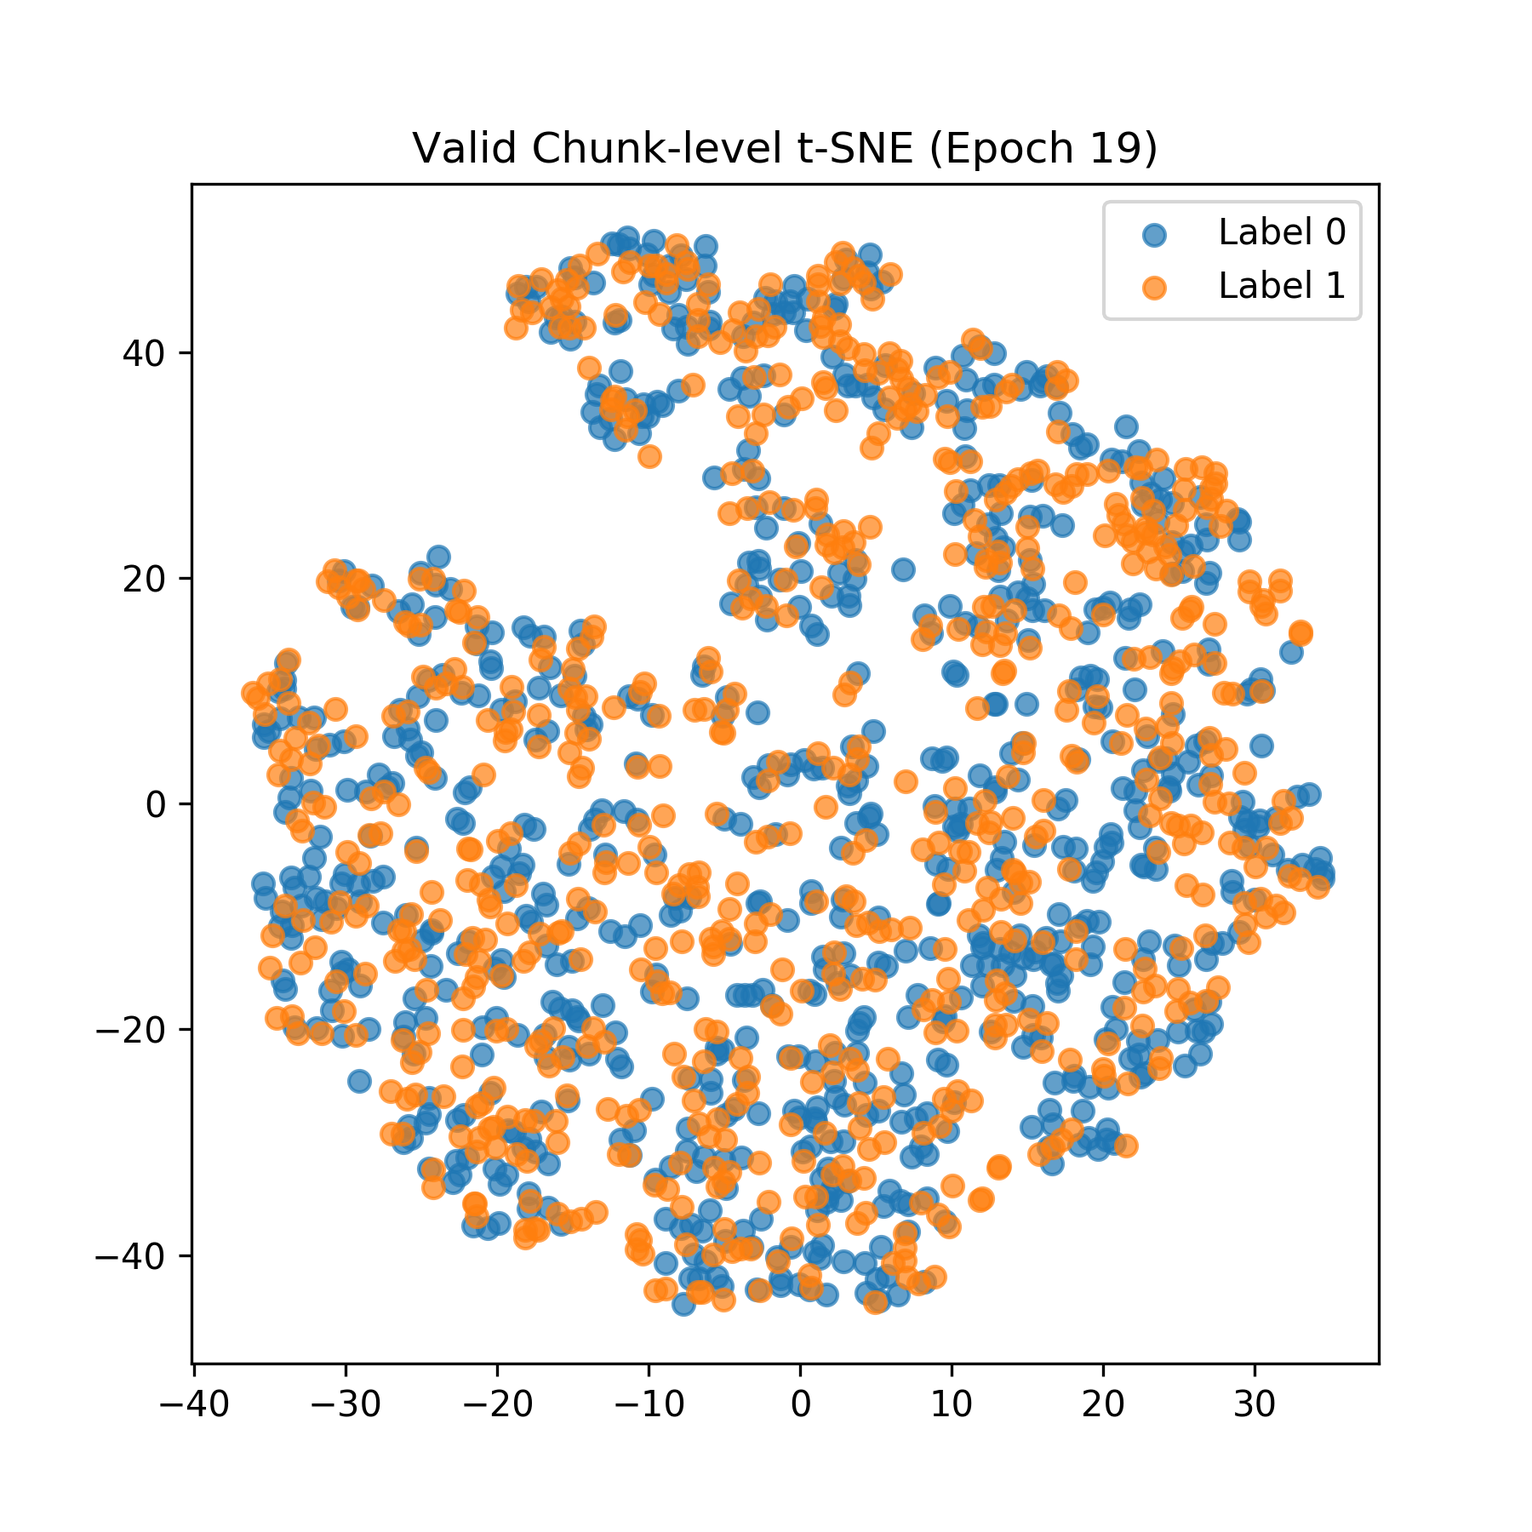
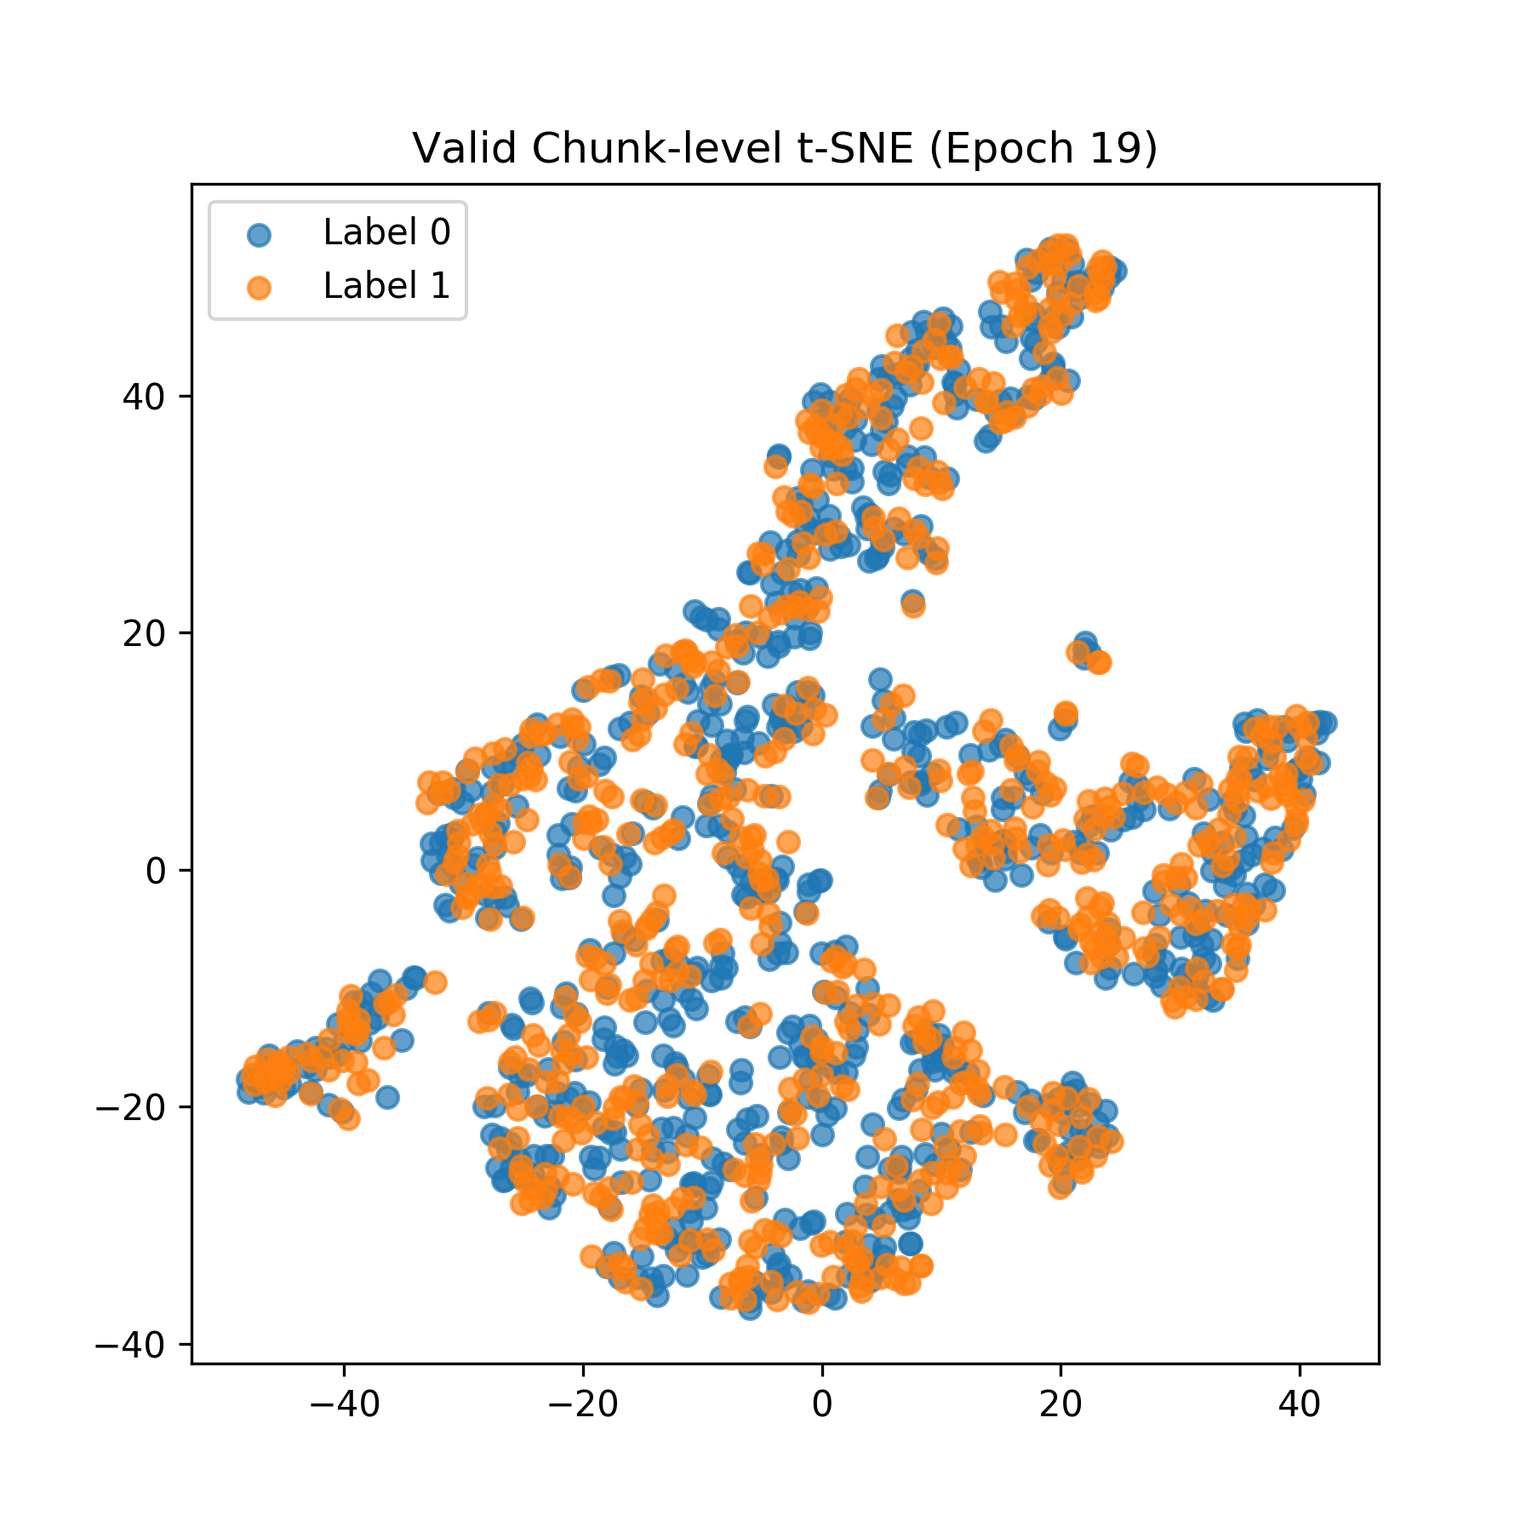
saving model/utils(for valid and test)/test code fixed, params adjustment

diff --git a/trainer/TemporalBranchTrainer_BC.py b/trainer/TemporalBranchTrainer_BC.py
@@ -328,7 +328,6 @@ class TemporalBranchTrainer_BC(BaseTrainer):
         self.attn_scorer = AttnScorer(
             input_dim=config.MODEL.EMOTION.TEMPORAL_EMBED_DIM
         ).to(self.device)
-        self.lambda_ent = 0.1 # for sparsity loss
         
         # ------------------------------ Projection Head -------------------------------
         """Maps chunk embeddings to a projection space for contrastive learning"""
@@ -370,12 +369,9 @@ class TemporalBranchTrainer_BC(BaseTrainer):
         # -------------------------------- Loss Functions -------------------------------
         """SupConLossTopK: supervised contrastive loss using top-K attended chunks per session"""
         self.contrastive_loss_fn = SupConLossTopK(temperature=0.1)
-        self.contrastive_weight = 1.0
-        self.top_k_ratio = 0.5
         
         """CrossEntropyLoss: standard cross-entropy loss for classification"""
         self.criterion = nn.CrossEntropyLoss() # <================================ HOW ABOUT FOCAL LOSS???
-        self.ce_weight = 0.0
         
         """
         AlignCosineLoss: cosine distance between Top-K pooled vs Gated pooled embeddings.
@@ -399,9 +395,9 @@ class TemporalBranchTrainer_BC(BaseTrainer):
         self.best_chunk_ce_loss = float('inf')
         self.best_val_loss = float('inf')
         self.best_epoch = 0
-        self.best_val_acc = 0.0
-        self.best_val_f1 = 0.0
-        self.best_val_metric = 0.0
+        self.best_val_acc_phase = [0.0 for _ in range(3)]     # Phase 0,1,2
+        self.best_val_f1_phase = [0.0 for _ in range(3)]
+        self.best_val_metric_phase = [0.0 for _ in range(3)]
         self.avg_entropy_attn = None
         
         self.train_losses = []
@@ -457,11 +453,12 @@ class TemporalBranchTrainer_BC(BaseTrainer):
             phase, lr, wd, t_max = 0, 3e-4, 1e-4, 20
             
             # ① SupCon λ : 0-4 (1→0.6) , 5-19 (0.6→0.3)
-            if   epoch <= 4:
-                self.contrastive_weight = 1.0 - 0.1 * epoch          # 1.0→0.6
+            if  epoch < 10:
+                self.contrastive_weight = 1.0 - 0.05 * epoch        # 1.0→0.55
             else:
-                self.contrastive_weight = 0.6 - 0.3 * (epoch-4)/15  # 0.6→0.3
+                self.contrastive_weight = 0.55 - 0.02 * (epoch-10)  # 0.55→0.35
             self.contrastive_weight = max(0.3, self.contrastive_weight)
+            self.lambda_ent      = 0.05 # for sparsity loss
             self.chunk_ce_weight = 0.0
             self.ce_weight       = 0.0
             
@@ -481,14 +478,16 @@ class TemporalBranchTrainer_BC(BaseTrainer):
                 self.chunk_ce_weight = 0.25
             else:
                 self.chunk_ce_weight = 0.35 + 0.025 * (epoch-25)      # 0.35→0.60
-            self.chunk_ce_weight = min(0.60, self.chunk_ce_weight)
             self.contrastive_weight = 0.0
+            self.lambda_ent         = 0.0
+            self.chunk_ce_weight    = min(0.60, self.chunk_ce_weight)
             self.ce_weight          = 0.0
             self.temperature        = 1.0         # fixed
         
         # ───────────────────── Phase-2 ─────────────────────
         else:                          
             phase, lr, wd, t_max = 2, 1e-4, 5e-5, 10
+            self.lambda_ent         = 0.0
             self.contrastive_weight = 0.0
             self.chunk_ce_weight    = 0.0
             self.ce_weight          = 1.0
@@ -597,7 +596,7 @@ class TemporalBranchTrainer_BC(BaseTrainer):
             # ────────────────────────────────────────────────
 
             # 2) attention scorer 
-            attn_soft, raw_scores = self.attn_scorer(
+            attn_soft, raw_scaled = self.attn_scorer(
                 chunk_emb,                               # (1,T,1)
                 temperature=self.temperature,            # τ  (phase-adaptive)
                 epoch=epoch,                             # epoch index
@@ -605,15 +604,16 @@ class TemporalBranchTrainer_BC(BaseTrainer):
             print(f"[DEBUG] Session {sid}  #chunks={T}, σ_running={self.attn_scorer.running_score_std.item():.3f}")
             
             # 3) build α  – soft in Phase-0, ST-Top-K in Phase-1
-            if phase == 0:                                              # Phase-0
-                alpha = attn_soft
-            elif phase == 1:                                              # Phase-1 ST-Top-K
-                if len(raw_scores.squeeze(0).squeeze(-1)) < 1:
+            if phase == 1: # Phase-1 ST-Top-K
+                if len(raw_scaled.squeeze(0).squeeze(-1)) < 1:
                     print("Empty attention scores – skip this session")
                     continue
                 k  = min(T, max(6, int(T * self.top_k_ratio)))
-                alpha = straight_through_topk(raw_scores, k=k)
-            else:
+                alpha_mask = straight_through_topk(raw_scaled, k=k) # (1, T)
+                mask_bool  = alpha_mask.squeeze(0).bool()           # (T,)
+                alpha = alpha_mask.unsqueeze(-1)                    # (1,T,1)
+                print(f"[DEBUG] Top-K selected = {mask_bool.sum().item()} / {T}")
+            else:          # Phase-0 softmax or Phase-2 raw scores
                 alpha = attn_soft
 
             # 4) apply α before projection  (keeps grad path)
@@ -628,7 +628,6 @@ class TemporalBranchTrainer_BC(BaseTrainer):
 
             # 5-B) Top-K chunk CE  (Phase-1)
             if phase == 1:
-                mask_bool = alpha.squeeze(0).bool()                   # (T,)
                 topk_emb  = chunk_emb.squeeze(0)[mask_bool]           # (K,D)
                 topk_logits = self.chunk_aux_classifier(topk_emb)
                 topk_labels = torch.full((len(topk_logits),), label,
@@ -637,7 +636,7 @@ class TemporalBranchTrainer_BC(BaseTrainer):
 
             # 6) session-level pooling
             pooled, attn_gated, ent_gated = self.pooling(
-                gated_emb, raw_scores, return_weights=True, return_entropy=True)
+                gated_emb, raw_scaled, return_weights=True, return_entropy=True)
             # ★──────── session-level t-SNE ───────────────────
             sess_emb = pooled.squeeze(0)                              # (D,)
             self.session_embeddings_for_tsne.append(sess_emb.detach().cpu().numpy())
@@ -900,27 +899,27 @@ class TemporalBranchTrainer_BC(BaseTrainer):
             val_loss, metrics = self.valid(data_loader, epoch=epoch)
             self.val_losses.append(val_loss)
 
-            # Save by highest accuracy
-            if metrics['accuracy'] > self.best_val_acc:
-                self.best_val_acc = metrics['accuracy']
-                self.best_epoch = epoch
-                self.save_model(epoch=epoch, val_loss=val_loss, train_loss=avg_loss, val_metrics=metrics, tag="best_acc")
-                print(f"[SAVE] Best ACC model updated at epoch {epoch}")
+            # Save by highest accuracy, F1, sum of metrics (ACC + F1) per phase
+            phase_tag = f"phase{phase}"
+            
+            # Save by highest accuracy per phase
+            if metrics['accuracy'] > self.best_val_acc_phase[phase]:
+                self.best_val_acc_phase[phase] = metrics['accuracy']
+                self.save_model(epoch=epoch, val_loss=val_loss, train_loss=avg_loss, val_metrics=metrics, tag=f"best_acc_{phase_tag}")
+                print(f"[SAVE] Best ACC model updated at epoch {epoch} ({phase_tag})")
 
-            # Save by highest F1
-            if metrics['f1'] > self.best_val_f1:
-                self.best_val_f1 = metrics['f1']
-                self.best_epoch = epoch
-                self.save_model(epoch=epoch, val_loss=val_loss, train_loss=avg_loss, val_metrics=metrics, tag="best_f1")
-                print(f"[SAVE] Best F1 model updated at epoch {epoch}")
+            # Save by highest F1 per phase
+            if metrics['f1'] > self.best_val_f1_phase[phase]:
+                self.best_val_f1_phase[phase] = metrics['f1']
+                self.save_model(epoch=epoch, val_loss=val_loss, train_loss=avg_loss, val_metrics=metrics, tag=f"best_f1_{phase_tag}")
+                print(f"[SAVE] Best F1 model updated at epoch {epoch} ({phase_tag})")
 
-            # Save by best sum of metrics (Acc + F1)
-            if metrics['f1'] + metrics['accuracy'] > self.best_val_metric:
-                self.best_val_metric = metrics['f1'] + metrics['accuracy']
-                self.best_epoch = epoch
-                self.save_model(epoch=epoch, val_loss=val_loss, train_loss=avg_loss, val_metrics=metrics, tag="best_metric")
-                print(f"[SAVE] Best Metric model updated at epoch {epoch}")
-
+            # Save by best sum of metrics (Acc + F1) per phase
+            if metrics['f1'] + metrics['accuracy'] > self.best_val_metric_phase[phase]:
+                self.best_val_metric_phase[phase] = metrics['f1'] + metrics['accuracy']
+                self.save_model(epoch=epoch, val_loss=val_loss, train_loss=avg_loss, val_metrics=metrics, tag=f"best_metric_{phase_tag}")
+                print(f"[SAVE] Best Metric model updated at epoch {epoch} ({phase_tag})")
+                            
             # Save by lowest validation loss
             if val_loss < self.best_val_loss:
                 self.best_val_loss = val_loss
@@ -987,7 +986,7 @@ class TemporalBranchTrainer_BC(BaseTrainer):
                     losses.append(loss.item())
 
                     # Retrieve entropy from reconstruct_sessions
-                    entropy_val = session_entropies.get(sid, torch.tensor(0.0)).item()
+                    entropy_val = session_entropies[sid].item()
                     entropies.append(entropy_val)
 
                     prob = torch.softmax(outputs, dim=1).detach().cpu().numpy()[0]
@@ -1029,9 +1028,23 @@ class TemporalBranchTrainer_BC(BaseTrainer):
         self.eval_mode()
 
         base_name = self.config.TRAIN.MODEL_FILE_NAME
-        tags = ["best_acc", "best_f1", "best_metric", "best_loss", 
-                "best_ce_loss", "best_chunkce", "last_epoch"]
         results = {}
+        
+        # Best ACC/F1/Metric models per phase 0,1,2
+        phase_tags = []
+        for phase in range(3):
+            phase_tags += [
+                f"best_acc_phase{phase}",
+                f"best_f1_phase{phase}",
+                f"best_metric_phase{phase}"
+            ]
+    
+        # common models (best valid/ce/chunk_ce loss, total best, last epoch)
+        common_tags = [
+            "best_loss", "best_ce_loss", "best_chunkce", "last_epoch"
+        ]
+    
+        tags = phase_tags + common_tags
 
         for tag in tags:
             model_path = os.path.join("./saved_models", f"{base_name}_{tag}.pth")
@@ -1050,7 +1063,7 @@ class TemporalBranchTrainer_BC(BaseTrainer):
                 tbar = tqdm(data_loader["test"], desc=f"Test-{tag}", ncols=80)
                 for idx, batch in enumerate(tbar):
                     session_emb_dict, session_label_dict, session_entropies = self.reconstruct_sessions(
-                        batch=batch, idx=idx, phase='test'
+                        batch=batch, idx=idx, epoch=self.max_epoch, phase='test'
                     )
 
                     for sid, emb in session_emb_dict.items():
@@ -1112,7 +1125,7 @@ class TemporalBranchTrainer_BC(BaseTrainer):
             train_loss (float, optional): Training loss at this epoch.
             val_loss (float, optional): Validation loss at this epoch.
             val_metrics (dict, optional): Validation metrics such as accuracy, F1, etc.
-            tag (str): best_acc, best_f1, best_loss, best_metric
+            tag (str): Tag for saved model, e.g., best_acc, best_f1, etc.
         """
         model_save_dir = "./saved_models"
         os.makedirs(model_save_dir, exist_ok=True)
@@ -1121,9 +1134,11 @@ class TemporalBranchTrainer_BC(BaseTrainer):
         # === Save all modules ===
         model_dict = {
             "temporal_branch": self.temporal_branch.state_dict(),
-            "attention_pooling": self.pooling.state_dict(),
-            "classifier": self.classifier.state_dict(),
+            "attn_scorer": self.attn_scorer.state_dict(),
             "projection_head": self.chunk_projection.state_dict(),
+            "chunk_aux_classifier": self.chunk_aux_classifier.state_dict(),
+            "gated_pooling": self.pooling.state_dict(),
+            "classifier": self.classifier.state_dict(),
         }
         model_path = os.path.join(model_save_dir, f"{base_name}_{tag}.pth")
         torch.save(model_dict, model_path)
@@ -1155,16 +1170,18 @@ class TemporalBranchTrainer_BC(BaseTrainer):
     def load_best_model(self, path):
         """
         Load the best model weights from a saved checkpoint.
-        This includes TemporalBranch, AttentionPooling, Classifier, and ProjectionHead.
-
-        Args:
-            path (str): Path to the .pth file containing the saved model weights.
+        This includes TemporalBranch, AttentionScorer, ChunkProjection, 
+        ChunkAuxClassifier, GatedPooling, and Classifier.
         """
         checkpoint = torch.load(path, map_location=self.device)
+        
         self.temporal_branch.load_state_dict(checkpoint["temporal_branch"])
-        self.pooling.load_state_dict(checkpoint["attention_pooling"])
-        self.classifier.load_state_dict(checkpoint["classifier"])
+        self.attn_scorer.load_state_dict(checkpoint["attn_scorer"])
         self.chunk_projection.load_state_dict(checkpoint["projection_head"])
+        self.chunk_aux_classifier.load_state_dict(checkpoint["chunk_aux_classifier"])
+        self.pooling.load_state_dict(checkpoint["gated_pooling"])
+        self.classifier.load_state_dict(checkpoint["classifier"])
+        
         print(f"[LOAD] Best model loaded from: {path}")
 
     def plot_losses_and_lrs(self):

diff --git a/tools/utils.py b/tools/utils.py
@@ -49,30 +49,22 @@ def reconstruct_sessions(self, batch=None, idx=None, epoch=None, phase="train"):
             self.chunk_labels_for_tsne.append(label)
 
         # === Attention ===
-        _, raw_scores = self.attn_scorer(chunk_embeds)  # (1, T, 1)
-        pooled, attn_weights, entropy = self.pooling(chunk_embeds, raw_scores, return_weights=True, return_entropy=True)
-        if epoch < 10: # Phase 0.0
-            attn_weights = F.softmax(raw_scores / self.temperature, dim=1)
+        attn_weights, raw_scores = self.attn_scorer(chunk_embeds, temperature=self.temperature, epoch=epoch)  # (1, T, 1)
+        pooled, attn_gated, entropy_gated = self.pooling(chunk_embeds, raw_scores, return_weights=True, return_entropy=True)
+        if attn_weights is not None:
             entropy = -torch.sum(attn_weights * torch.log(attn_weights + 1e-8), dim=1).mean()
-        elif 10 <= epoch < 35: # Phase 0.5 and 1
-            attn_weights = entmax.entmax15(raw_scores, dim=1)
-            entropy = -torch.sum(attn_weights * torch.log(attn_weights + 1e-8), dim=1).mean()
-        else: # Phase 2
-            pass
-
-        if phase in ['train', 'valid']:
-            if epoch <= 34:
-                attn_np = attn_weights.detach().cpu().squeeze().numpy()
-                print(f"[DEBUG][SupCon Attention Weights] {attn_np.tolist()}")
-                print(f"[DEBUG][SupCon Attn Sparsity] mean={attn_np.mean():.4f}, std={attn_np.std():.4f}, entropy={entropy.item():.4f}")
-            else:
-                attn_np = attn_weights.detach().cpu().squeeze().numpy()
-                print(f"[DEBUG][Gated Attention Weights] {attn_np.tolist()}")
-                print(f"[DEBUG][GatedAttn Sparsity] mean={attn_np.mean():.4f}, std={attn_np.std():.4f}, entropy={entropy.item():.4f}")
         else:
-            attn_np = attn_weights.detach().cpu().squeeze().numpy()
-            print(f"[DEBUG][Gated Attention Weights] {attn_np.tolist()}")
-            print(f"[DEBUG][GatedAttn Sparsity] mean={attn_np.mean():.4f}, std={attn_np.std():.4f}, entropy={entropy.item():.4f}")
+            attn_weights = attn_gated
+            entropy = entropy_gated
+            
+        attn_np = attn_weights.detach().cpu().squeeze().numpy()
+        if phase in ['train', 'valid']:
+            if epoch <= 34: # valid, phase0 and phase1
+                print(f"[DEBUG][AttnScorer Weights] {attn_np.tolist()}")
+                print(f"[DEBUG][AttnScorer Sparsity] mean={attn_np.mean():.4f}, std={attn_np.std():.4f}, entropy={entropy.item():.4f}")
+        else: # test and phase 2
+            print(f"[DEBUG][GatedPooling Weights] {attn_np.tolist()}")
+            print(f"[DEBUG][GatedPooling Sparsity] mean={attn_np.mean():.4f}, std={attn_np.std():.4f}, entropy={entropy.item():.4f}")
 
         # for t-SNE
         self.session_embeddings_for_tsne.append(pooled.detach().cpu().numpy())
@@ -140,17 +132,30 @@ def run_tsne_and_plot(self, level="chunk", epoch=0, phase="train"):
         self.session_labels_for_tsne.clear()
 
 # --- Utility
-def straight_through_topk(probs: torch.Tensor, k: int):
+def straight_through_topk(raw_scores: torch.Tensor, k: int, soft_branch: str = "entmax15"):
     """
     Forward : hard 1/0 Top-K mask
     Backward: soft probs (Entmax or Softmax) for gradient
+    Args:
+        raw_scores : (B,T,1)  –  logit or pre-score
+        k          : Top-K
+        soft_fn    : softmax  or  partial(entmax15)
     """
-    # 1) hard Top-K (forward)
-    _, top_idx = torch.topk(probs, k=k, dim=1)
+    B, T, _ = raw_scores.shape
+    logits  = raw_scores.view(B, T)
+
+    # ---- soft branch (∂L/∂logits) -----------------------------------------
+    if soft_branch == "entmax15":
+        probs = entmax.entmax15(logits, dim=1)
+    else:
+        probs = torch.softmax(logits, dim=1)
+
+    # ---- hard branch (forward only) ---------------------------------------
+    _, top_idx = torch.topk(logits, k=min(k, T), dim=1)
     hard = torch.zeros_like(probs).scatter_(1, top_idx, 1.0)
-    
-    # 2) ST-trick : hard forward, soft grads
-    return (hard - probs).detach() + probs
+
+    # ---- straight-through --------------------------------------------------
+    return (hard - probs).detach() + probs         # (B,T)
 
 
 

diff --git a/modules/AttnScorer.py b/modules/AttnScorer.py
@@ -61,13 +61,13 @@ class AttnScorer(nn.Module):
         self._update_running_std(raw_scores.detach().std().item())
         sigma = self.running_score_std.item()
 
-        sigma_star = 1.2 if epoch < 20 else 1.5               # target σ*
+        sigma_star = 0.8 if epoch < 12 else 1.2               # target σ*
         gamma      = (sigma_star / (sigma + 1e-4))
-        gamma      = float(max(0.5, min(3.0, gamma)))         # clamp
+        gamma      = float(max(0.5, min(2.0, gamma)))         # clamp
         raw_scaled = raw_scores * gamma                       # scale
         
         # --- choose attention kernel ----------------------
-        if epoch < 5:                                               # Phase 0-a:  Softmax explore
+        if epoch < 10:                                               # Phase 0-a:  Softmax explore
             attn = torch.softmax(raw_scaled / temperature, dim=1)
         
         elif epoch < 20:                                            # Phase 0-b:  α-Entmax warm-up
@@ -86,16 +86,4 @@ class AttnScorer(nn.Module):
                   f"→ γ={gamma:.2f} | kernel={('soft','α','15','raw')[min(3,epoch//15)]}")
 
         
-        return attn, raw_scores
-        
-        """
-        attn_scores = F.softmax(scores / self.temperature, dim=1) # Apply softmax across time (T) with temperature scaling: (B, T, 1)
-
-        if return_entropy:
-            entropy = -torch.sum(attn_scores * torch.log(attn_scores + 1e-8), dim=1).mean()
-            return attn_scores, entropy
-        else:
-            return attn_scores # These scores are only used to rank/select Top-K chunks; not used for pooling.
-        """
-        
-        
+        return attn, raw_scaled
